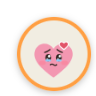
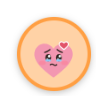
README: the badge takes the colour of the state
Screenshots and the table now show the background colours from 1.3.4 (pale blue working, pale green done, breathing orange when it needs you, ivory idle) instead of an ivory box with a coloured ring; the buttons sit at the top.

Changed region(s): [[0.1875, 0.1875, 0.9375, 0.9375]]

diff --git a/README.md b/README.md
@@ -9,14 +9,16 @@
   <img src="screenshots/asking.png" alt="asking: Social needs you, teary-eyed" width="150">
 </p>
 
-Five little heads sit on an ivory badge. The one in front is the session that matters most right now; the rest wait small in the corners. The colour ring says what the front one is doing:
+Five little heads sit on a rounded badge. The one in front is the session that matters most right now; the rest wait small in the corners. The whole badge takes the colour of what that one is doing, so you can tell at a glance:
 
-| Front face | Ring | Meaning |
+| Front face | Badge | Meaning |
 |---|---|---|
-| The crew dozing, eyes closed | grey | Nothing happening |
-| Focused, a small bob, eyes glancing | blue | Claude is working |
-| Happy closed eyes, one pop + chime | green | Claude finished |
-| Teary eyes, a nudge, "?" bubble + chime | orange | Claude is waiting for you (a permission or a question) |
+| The crew dozing, eyes closed | ivory | Nothing happening |
+| Focused, a small bob, eyes glancing | pale blue | Claude is working |
+| Happy closed eyes, one pop + chime | pale green | Claude finished |
+| Teary eyes, a nudge, "?" bubble + chime | orange that slowly deepens and fades | Claude is waiting for you (a permission or a question) |
+
+Only "waiting for you" moves the colour, so a question stands out without flashing.
 
 **Who comes to the front:** a session that needs you, then one that has just finished (for a moment, so you see it), then one at work. Your own Claude Code sessions share one face: Claude orange, or VS Code black and blue (tray → **Your sessions' face**). Agents of a [Crew](https://github.com/Fahim-2135/crew) team each wear their own face and name, the same as in the Crew window, and the corners show the agents seen lately, dozing.
 
@@ -34,14 +36,14 @@ It starts by itself at login, has no taskbar button, and lives in the system tra
 - **Move** it by dragging; **resize** it from the bottom-right corner.
 - **Click** the face to bring the window of the session that needs you to the front (VS Code, and terminals that show the folder name in their title). With several sessions busy it picks the most urgent: asking first, then done, then working. If that session is an agent in **Crew**, the Crew window opens on that agent instead.
 - **Only Crew agents** (tray menu): show only the agents of a [Crew](https://github.com/Fahim-2135/crew) team, not every Claude Code session. Crew sets this up when it installs claude-face (`--crew-only --connect`).
-- Hover for two buttons: **mini mode** (just the front face, in a small round badge) and **–** (hide to tray).
+- Hover for two buttons at the top: **mini mode** (just the front face, in a small round badge in the same colour) and **–** (hide to tray).
 - Right-click the tray icon for every setting.
 
 ## Usage meter
 
 <img src="screenshots/usage-high.png" alt="usage bars, with the VS Code face in front" width="150"> <img src="screenshots/mini.png" alt="mini mode: the front face in a round badge" width="48">
 
-Two thin bars show how much of your Claude plan is used: **top = 5-hour limit, bottom = weekly limit**. Green under 60%, amber 60–85%, red above 85%. Hover the bars for the exact numbers and the time until each resets. Mini mode shows only the front face, its ring in the state's colour.
+Two thin bars show how much of your Claude plan is used: **top = 5-hour limit, bottom = weekly limit**. Green under 60%, amber 60–85%, red above 85%. Hover the bars for the exact numbers and the time until each resets. Mini mode shows only the front face, in the state's colour.
 
 The numbers are **exact**: the app asks the Claude Code program on your computer for the same figures `/usage` shows. No prompt is sent and no usage is spent. This uses an internal Claude Code request; if a future update changes it, the bars hide themselves rather than show a wrong number.
 
